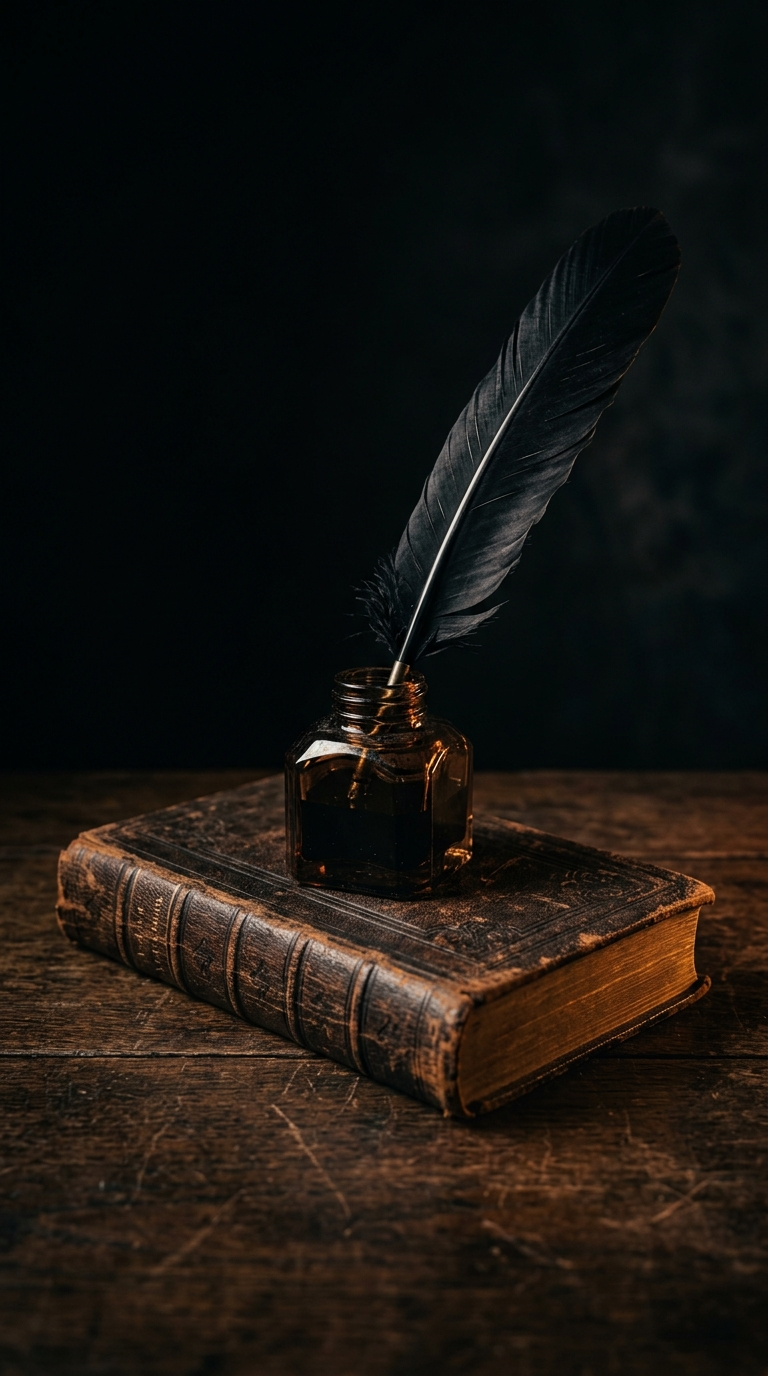
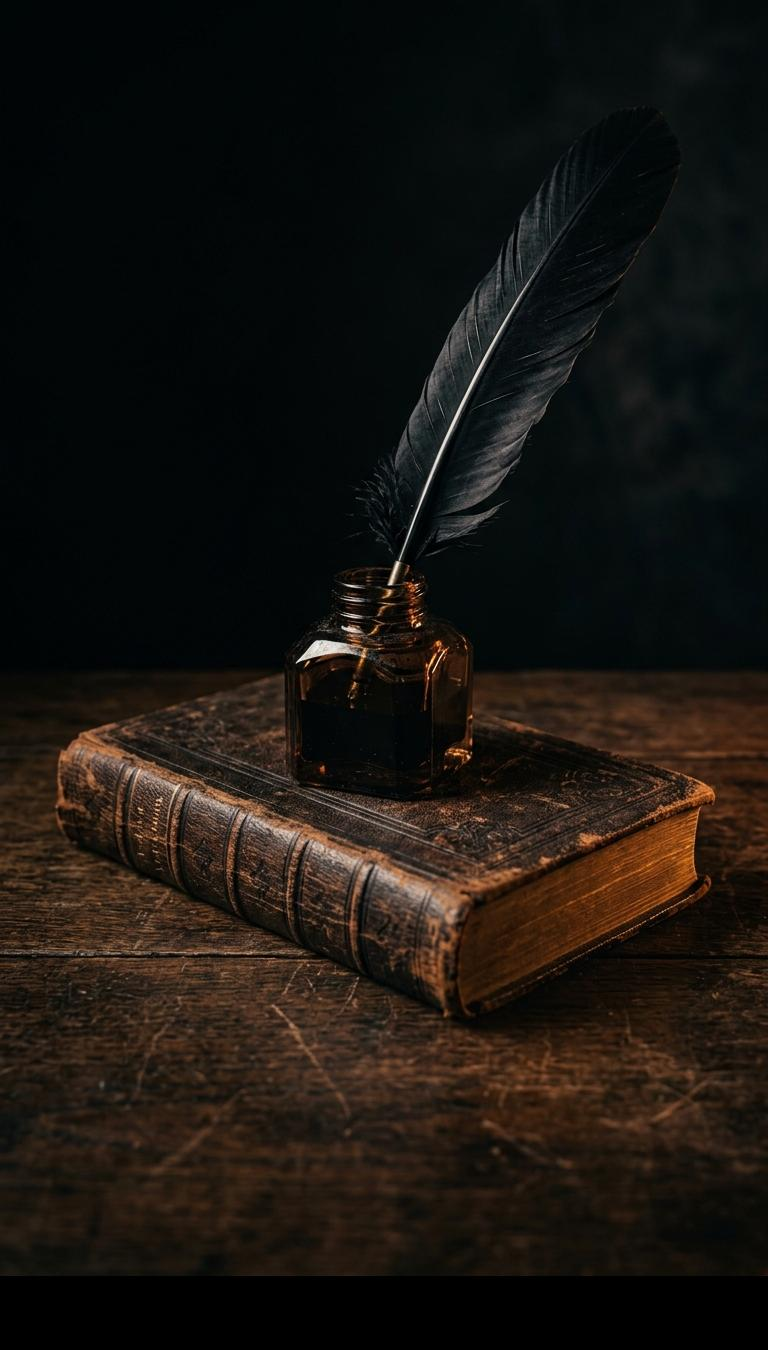
style(footer): expand height, increase typography scale, and fix right-side background framing

diff --git a/src/components/layout/footer.tsx b/src/components/layout/footer.tsx
@@ -13,54 +13,54 @@ import {
 
 export function Footer() {
   return (
-    <footer className="relative bg-black text-slate-300 pt-20 pb-10 overflow-hidden font-sans border-t border-white/5">
-      {/* Background Graphic: Antique Leather Book, Glass Inkwell & Black Feather Quill (Positioned on the Right Side) */}
-      <div className="absolute right-0 top-0 bottom-16 w-[360px] sm:w-[460px] lg:w-[520px] pointer-events-none select-none z-0 overflow-hidden">
+    <footer className="relative bg-black text-slate-300 pt-24 sm:pt-28 pb-14 min-h-[600px] overflow-hidden font-sans border-t border-white/5">
+      {/* Background Graphic: Antique Leather Book, Inkwell & Feather Quill (Spans Full Height on the Right) */}
+      <div className="absolute right-0 top-0 bottom-0 w-full sm:w-[500px] lg:w-[620px] xl:w-[700px] pointer-events-none select-none z-0 overflow-hidden">
         <div className="relative w-full h-full">
           <Image
             src="/footer-quill-bg.jpg"
             alt="Vintage Book with Quill in Inkwell"
             fill
             priority
-            className="object-cover object-right-bottom opacity-50"
+            className="object-contain object-right opacity-65"
           />
-          {/* Smooth gradient masks to blend seamlessly into pure black on the left and bottom */}
-          <div className="absolute inset-0 bg-gradient-to-r from-black via-black/40 to-transparent" />
+          {/* Smooth gradient blends to melt into solid black on the left and bottom */}
+          <div className="absolute inset-0 bg-gradient-to-r from-black via-black/25 to-transparent" />
           <div className="absolute inset-0 bg-gradient-to-t from-black via-transparent to-transparent" />
         </div>
       </div>
 
       {/* 97%-98% Responsive Shell matching design specifications */}
       <div className="relative z-10 w-[97%] lg:w-[98%] max-w-[1850px] mx-auto">
-        {/* Main 5-Column Row with Exact Proportional Column Widths */}
-        <div className="flex flex-col lg:flex-row items-start justify-between gap-8 lg:gap-0 pb-12">
+        {/* Main 5-Column Row with Exact Proportions and Generous Spacing */}
+        <div className="flex flex-col lg:flex-row items-start justify-between gap-10 lg:gap-0 pb-16">
           
           {/* Column 1: Brand Logo, Narrative Summary & Social Channels (28% Width) */}
           <div className="w-full lg:w-[28%] lg:pr-6 flex flex-col justify-between">
             <div>
-              <Link href="/" className="inline-block select-none mb-3">
-                <div className="relative w-[210px] sm:w-[235px] h-[48px] sm:h-[54px]">
+              <Link href="/" className="inline-block select-none mb-4">
+                <div className="relative w-[220px] sm:w-[250px] h-[52px] sm:h-[58px]">
                   <Image
                     src="/logo.png"
                     alt="Best Selling Publisher"
                     fill
-                    className="object-contain object-left drop-shadow-[0_0_12px_rgba(64,190,226,0.35)]"
+                    className="object-contain object-left drop-shadow-[0_0_15px_rgba(64,190,226,0.35)]"
                   />
                 </div>
               </Link>
 
-              <p className="text-xs sm:text-[13px] text-slate-400 leading-relaxed max-w-sm mt-3">
+              <p className="text-[14px] sm:text-[14.5px] text-slate-300 leading-relaxed max-w-sm mt-4">
                 Best Selling Publisher supports authors with editing, design, formatting, publishing setup, 
                 and marketing services selected in an approved project scope.
               </p>
             </div>
 
             {/* 7 Social Media Ring Icons */}
-            <div className="mt-8 flex items-center gap-2.5 flex-wrap">
+            <div className="mt-9 flex items-center gap-3 flex-wrap">
               {/* Facebook */}
               <a
                 href="#"
-                className="w-8 h-8 rounded-full border border-slate-700/80 bg-black hover:border-[#40bee2] hover:text-[#40bee2] text-slate-300 flex items-center justify-center transition-all text-xs font-bold shadow-sm hover:shadow-[0_0_10px_rgba(64,190,226,0.4)] active:scale-95"
+                className="w-9 h-9 rounded-full border border-slate-700/80 bg-black hover:border-[#40bee2] hover:text-[#40bee2] text-slate-300 flex items-center justify-center transition-all text-sm font-bold shadow-sm hover:shadow-[0_0_12px_rgba(64,190,226,0.4)] active:scale-95"
                 aria-label="Facebook"
               >
                 f
@@ -69,10 +69,10 @@ export function Footer() {
               {/* Instagram */}
               <a
                 href="#"
-                className="w-8 h-8 rounded-full border border-slate-700/80 bg-black hover:border-[#40bee2] hover:text-[#40bee2] text-slate-300 flex items-center justify-center transition-all text-xs shadow-sm hover:shadow-[0_0_10px_rgba(64,190,226,0.4)] active:scale-95"
+                className="w-9 h-9 rounded-full border border-slate-700/80 bg-black hover:border-[#40bee2] hover:text-[#40bee2] text-slate-300 flex items-center justify-center transition-all text-sm shadow-sm hover:shadow-[0_0_12px_rgba(64,190,226,0.4)] active:scale-95"
                 aria-label="Instagram"
               >
-                <svg className="w-3.5 h-3.5 fill-current" viewBox="0 0 24 24">
+                <svg className="w-4 h-4 fill-current" viewBox="0 0 24 24">
                   <path d="M12 2.163c3.204 0 3.584.012 4.85.07 3.252.148 4.771 1.691 4.919 4.919.058 1.265.069 1.645.069 4.849 0 3.205-.012 3.584-.069 4.849-.149 3.225-1.664 4.771-4.919 4.919-1.266.058-1.644.07-4.85.07-3.204 0-3.584-.012-4.849-.07-3.26-.149-4.771-1.699-4.919-4.92-.058-1.265-.07-1.644-.07-4.849 0-3.204.013-3.583.07-4.849.149-3.227 1.664-4.771 4.919-4.919 1.266-.057 1.645-.069 4.849-.069zm0-2.163c-3.259 0-3.667.014-4.947.072-4.358.2-6.78 2.618-6.98 6.98-.059 1.281-.073 1.689-.073 4.948 0 3.259.014 3.668.072 4.948.2 4.358 2.618 6.78 6.98 6.98 1.281.058 1.689.072 4.948.072 3.259 0 3.668-.014 4.948-.072 4.354-.2 6.782-2.618 6.979-6.98.059-1.28.073-1.689.073-4.948 0-3.259-.014-3.667-.072-4.947-.196-4.354-2.617-6.78-6.979-6.98-1.281-.059-1.69-.073-4.949-.073zm0 5.838c-3.403 0-6.162 2.759-6.162 6.162s2.759 6.163 6.162 6.163 6.162-2.759 6.162-6.163c0-3.403-2.759-6.162-6.162-6.162zm0 10.162c-2.209 0-4-1.79-4-4 0-2.209 1.791-4 4-4s4 1.791 4 4c0 2.21-1.791 4-4 4zm6.406-11.845c-.796 0-1.441.645-1.441 1.44s.645 1.44 1.441 1.44c.795 0 1.439-.645 1.439-1.44s-.644-1.44-1.439-1.44z"/>
                 </svg>
               </a>
@@ -80,7 +80,7 @@ export function Footer() {
               {/* X */}
               <a
                 href="#"
-                className="w-8 h-8 rounded-full border border-slate-700/80 bg-black hover:border-[#40bee2] hover:text-[#40bee2] text-slate-300 flex items-center justify-center transition-all text-xs font-bold shadow-sm hover:shadow-[0_0_10px_rgba(64,190,226,0.4)] active:scale-95"
+                className="w-9 h-9 rounded-full border border-slate-700/80 bg-black hover:border-[#40bee2] hover:text-[#40bee2] text-slate-300 flex items-center justify-center transition-all text-sm font-bold shadow-sm hover:shadow-[0_0_12px_rgba(64,190,226,0.4)] active:scale-95"
                 aria-label="X"
               >
                 𝕏
@@ -89,7 +89,7 @@ export function Footer() {
               {/* Pinterest */}
               <a
                 href="#"
-                className="w-8 h-8 rounded-full border border-slate-700/80 bg-black hover:border-[#40bee2] hover:text-[#40bee2] text-slate-300 flex items-center justify-center transition-all text-xs font-bold shadow-sm hover:shadow-[0_0_10px_rgba(64,190,226,0.4)] active:scale-95"
+                className="w-9 h-9 rounded-full border border-slate-700/80 bg-black hover:border-[#40bee2] hover:text-[#40bee2] text-slate-300 flex items-center justify-center transition-all text-sm font-bold shadow-sm hover:shadow-[0_0_12px_rgba(64,190,226,0.4)] active:scale-95"
                 aria-label="Pinterest"
               >
                 P
@@ -98,10 +98,10 @@ export function Footer() {
               {/* TikTok */}
               <a
                 href="#"
-                className="w-8 h-8 rounded-full border border-slate-700/80 bg-black hover:border-[#40bee2] hover:text-[#40bee2] text-slate-300 flex items-center justify-center transition-all text-xs shadow-sm hover:shadow-[0_0_10px_rgba(64,190,226,0.4)] active:scale-95"
+                className="w-9 h-9 rounded-full border border-slate-700/80 bg-black hover:border-[#40bee2] hover:text-[#40bee2] text-slate-300 flex items-center justify-center transition-all text-sm shadow-sm hover:shadow-[0_0_12px_rgba(64,190,226,0.4)] active:scale-95"
                 aria-label="TikTok"
               >
-                <svg className="w-3.5 h-3.5 fill-current" viewBox="0 0 24 24">
+                <svg className="w-4 h-4 fill-current" viewBox="0 0 24 24">
                   <path d="M12.525.02c1.31-.02 2.61-.01 3.91-.02.08 1.53.63 3.09 1.75 4.17 1.12 1.11 2.7 1.62 4.24 1.79v4.03c-1.44-.05-2.89-.35-4.2-.97-.57-.26-1.1-.59-1.62-.93-.01 2.92.01 5.84-.02 8.75-.08 1.4-.54 2.79-1.35 3.94-1.31 1.92-3.58 3.17-5.91 3.21-1.43.08-2.86-.31-4.08-1.03-2.02-1.19-3.44-3.37-3.65-5.71-.02-.5-.03-1-.01-1.49.18-1.9 1.12-3.72 2.58-4.96 1.66-1.44 3.98-2.13 6.15-1.72.02 1.48-.04 2.96-.04 4.44-.99-.32-2.15-.23-3.02.37-.63.41-1.11 1.04-1.36 1.75-.21.51-.24 1.07-.14 1.61.24 1.64 1.82 3.02 3.5 2.87 1.12-.01 2.19-.66 2.77-1.61.19-.33.4-.67.41-1.06.1-1.79.06-3.57.07-5.36.01-4.03-.01-8.05.02-12.07z"/>
                 </svg>
               </a>
@@ -109,10 +109,10 @@ export function Footer() {
               {/* YouTube */}
               <a
                 href="#"
-                className="w-8 h-8 rounded-full border border-slate-700/80 bg-black hover:border-[#40bee2] hover:text-[#40bee2] text-slate-300 flex items-center justify-center transition-all text-xs shadow-sm hover:shadow-[0_0_10px_rgba(64,190,226,0.4)] active:scale-95"
+                className="w-9 h-9 rounded-full border border-slate-700/80 bg-black hover:border-[#40bee2] hover:text-[#40bee2] text-slate-300 flex items-center justify-center transition-all text-sm shadow-sm hover:shadow-[0_0_12px_rgba(64,190,226,0.4)] active:scale-95"
                 aria-label="YouTube"
               >
-                <svg className="w-3.5 h-3.5 fill-current" viewBox="0 0 24 24">
+                <svg className="w-4 h-4 fill-current" viewBox="0 0 24 24">
                   <path d="M23.498 6.186a3.016 3.016 0 0 0-2.122-2.136C19.505 3.545 12 3.545 12 3.545s-7.505 0-9.377.505A3.017 3.017 0 0 0 .502 6.186C0 8.07 0 12 0 12s0 3.93.502 5.814a3.016 3.016 0 0 0 2.122 2.136c1.871.505 9.376.505 9.376.505s7.505 0 9.377-.505a3.015 3.015 0 0 0 2.122-2.136C24 15.93 24 12 24 12s0-3.93-.502-5.814zM9.545 15.568V8.432L15.818 12l-6.273 3.568z"/>
                 </svg>
               </a>
@@ -120,7 +120,7 @@ export function Footer() {
               {/* LinkedIn */}
               <a
                 href="#"
-                className="w-8 h-8 rounded-full border border-slate-700/80 bg-black hover:border-[#40bee2] hover:text-[#40bee2] text-slate-300 flex items-center justify-center transition-all text-xs font-bold shadow-sm hover:shadow-[0_0_10px_rgba(64,190,226,0.4)] active:scale-95"
+                className="w-9 h-9 rounded-full border border-slate-700/80 bg-black hover:border-[#40bee2] hover:text-[#40bee2] text-slate-300 flex items-center justify-center transition-all text-sm font-bold shadow-sm hover:shadow-[0_0_12px_rgba(64,190,226,0.4)] active:scale-95"
                 aria-label="LinkedIn"
               >
                 in
@@ -129,7 +129,7 @@ export function Footer() {
           </div>
 
           {/* Animated Vertical Divider 1 with glowing cyan top dot */}
-          <div className="hidden lg:flex flex-col items-center self-stretch mx-4">
+          <div className="hidden lg:flex flex-col items-center self-stretch mx-5">
             <div className="w-[1px] h-full bg-gradient-to-b from-[#40bee2]/90 via-slate-800/80 to-transparent relative">
               <span className="absolute -top-1 -left-[3px] w-2 h-2 rounded-full bg-[#40bee2] shadow-[0_0_12px_#40bee2] animate-pulse" />
             </div>
@@ -137,16 +137,16 @@ export function Footer() {
 
           {/* Column 2: QUICK LINKS (13% Width - Compact) */}
           <div className="w-full lg:w-[13%]">
-            <div className="mb-5">
-              <h4 className="text-[13px] sm:text-[14px] font-bold uppercase tracking-wider text-white">
+            <div className="mb-6">
+              <h4 className="text-[15px] sm:text-[16px] font-bold uppercase tracking-wider text-white">
                 QUICK LINKS
               </h4>
-              <div className="h-[2px] w-12 bg-gradient-to-r from-[#40bee2] via-[#40bee2]/60 to-transparent rounded-full mt-1.5 relative overflow-hidden">
+              <div className="h-[2.5px] w-14 bg-gradient-to-r from-[#40bee2] via-[#40bee2]/70 to-transparent rounded-full mt-2 relative overflow-hidden">
                 <div className="absolute inset-0 bg-white/40 animate-pulse" />
               </div>
             </div>
 
-            <ul className="space-y-3 text-xs sm:text-[13px] text-slate-300">
+            <ul className="space-y-4 text-[14px] sm:text-[14.5px] text-slate-300">
               {[
                 { name: "Home", href: "/" },
                 { name: "Blogs", href: "/blogs" },
@@ -159,7 +159,7 @@ export function Footer() {
                     href={link.href}
                     className="flex items-center gap-2 hover:text-[#40bee2] transition-colors group"
                   >
-                    <ChevronRight className="w-3 h-3 text-[#40bee2] shrink-0 transition-transform group-hover:translate-x-1" />
+                    <ChevronRight className="w-3.5 h-3.5 text-[#40bee2] shrink-0 transition-transform group-hover:translate-x-1" />
                     <span>{link.name}</span>
                   </Link>
                 </li>
@@ -168,7 +168,7 @@ export function Footer() {
           </div>
 
           {/* Animated Vertical Divider 2 with glowing cyan top dot */}
-          <div className="hidden lg:flex flex-col items-center self-stretch mx-4">
+          <div className="hidden lg:flex flex-col items-center self-stretch mx-5">
             <div className="w-[1px] h-full bg-gradient-to-b from-[#40bee2]/90 via-slate-800/80 to-transparent relative">
               <span className="absolute -top-1 -left-[3px] w-2 h-2 rounded-full bg-[#40bee2] shadow-[0_0_12px_#40bee2] animate-pulse" />
             </div>
@@ -176,16 +176,16 @@ export function Footer() {
 
           {/* Column 3: OUR SERVICES (17% Width - Compact) */}
           <div className="w-full lg:w-[17%]">
-            <div className="mb-5">
-              <h4 className="text-[13px] sm:text-[14px] font-bold uppercase tracking-wider text-white">
+            <div className="mb-6">
+              <h4 className="text-[15px] sm:text-[16px] font-bold uppercase tracking-wider text-white">
                 OUR SERVICES
               </h4>
-              <div className="h-[2px] w-14 bg-gradient-to-r from-[#40bee2] via-[#40bee2]/60 to-transparent rounded-full mt-1.5 relative overflow-hidden">
+              <div className="h-[2.5px] w-16 bg-gradient-to-r from-[#40bee2] via-[#40bee2]/70 to-transparent rounded-full mt-2 relative overflow-hidden">
                 <div className="absolute inset-0 bg-white/40 animate-pulse" />
               </div>
             </div>
 
-            <ul className="space-y-3 text-xs sm:text-[13px] text-slate-300">
+            <ul className="space-y-4 text-[14px] sm:text-[14.5px] text-slate-300">
               {[
                 { name: "Book Publishing", href: "/book-publishing-services" },
                 { name: "Digital Book Publishing", href: "/book-publishing-services" },
@@ -200,7 +200,7 @@ export function Footer() {
                     href={svc.href}
                     className="flex items-center gap-2 hover:text-[#40bee2] transition-colors group"
                   >
-                    <BookOpen className="w-3.5 h-3.5 text-[#40bee2] shrink-0" />
+                    <BookOpen className="w-4 h-4 text-[#40bee2] shrink-0" />
                     <span>{svc.name}</span>
                   </Link>
                 </li>
@@ -209,7 +209,7 @@ export function Footer() {
           </div>
 
           {/* Animated Vertical Divider 3 with glowing cyan top dot */}
-          <div className="hidden lg:flex flex-col items-center self-stretch mx-4">
+          <div className="hidden lg:flex flex-col items-center self-stretch mx-5">
             <div className="w-[1px] h-full bg-gradient-to-b from-[#40bee2]/90 via-slate-800/80 to-transparent relative">
               <span className="absolute -top-1 -left-[3px] w-2 h-2 rounded-full bg-[#40bee2] shadow-[0_0_12px_#40bee2] animate-pulse" />
             </div>
@@ -217,18 +217,18 @@ export function Footer() {
 
           {/* Column 4: CONTACT US (18% Width - Compact) */}
           <div className="w-full lg:w-[18%]">
-            <div className="mb-5">
-              <h4 className="text-[13px] sm:text-[14px] font-bold uppercase tracking-wider text-white">
+            <div className="mb-6">
+              <h4 className="text-[15px] sm:text-[16px] font-bold uppercase tracking-wider text-white">
                 CONTACT US
               </h4>
-              <div className="h-[2px] w-12 bg-gradient-to-r from-[#40bee2] via-[#40bee2]/60 to-transparent rounded-full mt-1.5 relative overflow-hidden">
+              <div className="h-[2.5px] w-14 bg-gradient-to-r from-[#40bee2] via-[#40bee2]/70 to-transparent rounded-full mt-2 relative overflow-hidden">
                 <div className="absolute inset-0 bg-white/40 animate-pulse" />
               </div>
             </div>
 
-            <ul className="space-y-3.5 text-xs sm:text-[13px] text-slate-300">
+            <ul className="space-y-4 text-[14px] sm:text-[14.5px] text-slate-300">
               <li className="flex items-start gap-2.5">
-                <Mail className="w-3.5 h-3.5 text-[#40bee2] shrink-0 mt-0.5" />
+                <Mail className="w-4 h-4 text-[#40bee2] shrink-0 mt-1" />
                 <a
                   href="mailto:inquiries@bestsellingpublisher.com"
                   className="hover:text-[#40bee2] transition-colors break-all leading-snug"
@@ -237,7 +237,7 @@ export function Footer() {
                 </a>
               </li>
               <li className="flex items-start gap-2.5">
-                <Mail className="w-3.5 h-3.5 text-[#40bee2] shrink-0 mt-0.5" />
+                <Mail className="w-4 h-4 text-[#40bee2] shrink-0 mt-1" />
                 <a
                   href="mailto:info@bestsellingpublisher.com"
                   className="hover:text-[#40bee2] transition-colors break-all leading-snug"
@@ -246,7 +246,7 @@ export function Footer() {
                 </a>
               </li>
               <li className="flex items-start gap-2.5">
-                <Phone className="w-3.5 h-3.5 text-[#40bee2] shrink-0 mt-0.5" />
+                <Phone className="w-4 h-4 text-[#40bee2] shrink-0 mt-1" />
                 <a
                   href="tel:8556666675"
                   className="hover:text-[#40bee2] transition-colors font-semibold leading-snug"
@@ -255,14 +255,14 @@ export function Footer() {
                 </a>
               </li>
               <li className="flex items-start gap-2.5">
-                <MapPin className="w-3.5 h-3.5 text-[#40bee2] shrink-0 mt-0.5" />
+                <MapPin className="w-4 h-4 text-[#40bee2] shrink-0 mt-1" />
                 <span className="leading-snug text-slate-400">
                   9518 Mykawa Road,<br />
                   Houston, TX 77048
                 </span>
               </li>
               <li className="flex items-start gap-2.5">
-                <MapPin className="w-3.5 h-3.5 text-[#40bee2] shrink-0 mt-0.5" />
+                <MapPin className="w-4 h-4 text-[#40bee2] shrink-0 mt-1" />
                 <span className="leading-snug text-slate-400">
                   445 S Figueroa St,<br />
                   Los Angeles, CA 90071
@@ -273,14 +273,14 @@ export function Footer() {
 
           {/* Column 5: DMCA & Payment Cards Box + Calligraphy Slogan (24% Width) */}
           <div className="w-full lg:w-[24%] flex flex-col items-start lg:items-start pl-0 lg:pl-4 z-10">
-            {/* Interactive DMCA & Payment Cards Card */}
-            <div className="relative rounded-2xl border border-white/20 bg-black/50 backdrop-blur-md p-3.5 sm:p-4 shadow-xl hover:border-[#40bee2]/50 transition-all cursor-pointer group select-none">
+            {/* Interactive DMCA & Payment Cards Box */}
+            <div className="relative w-[250px] rounded-2xl border border-white/20 bg-black/60 backdrop-blur-md p-4 shadow-2xl hover:border-[#40bee2]/50 transition-all cursor-pointer group select-none">
               {/* DMCA Badge Header */}
-              <div className="border border-amber-400/90 rounded-[5px] overflow-hidden flex items-center h-[34px] shadow-sm bg-black mb-3">
-                <div className="bg-gradient-to-r from-lime-600 via-green-600 to-green-500 h-full px-3 flex items-center justify-center text-white font-extrabold text-[12px] tracking-wider shadow-inner">
+              <div className="border border-amber-400/90 rounded-[5px] overflow-hidden flex items-center h-[36px] shadow-sm bg-black mb-3">
+                <div className="bg-gradient-to-r from-lime-600 via-green-600 to-green-500 h-full px-3.5 flex items-center justify-center text-white font-extrabold text-[13px] tracking-wider shadow-inner">
                   DMCA
                 </div>
-                <div className="bg-black h-full px-3.5 flex items-center justify-center text-white font-black text-[12px] tracking-widest">
+                <div className="bg-black h-full px-4 flex items-center justify-center text-white font-black text-[13px] tracking-widest">
                   PROTECTED
                 </div>
               </div>
@@ -288,36 +288,36 @@ export function Footer() {
               {/* 4 Payment Cards Row */}
               <div className="flex items-center gap-2">
                 {/* MasterCard */}
-                <div className="w-11 h-7 rounded bg-[#0a1b3a] border border-white/10 flex items-center justify-center overflow-hidden p-0.5 shadow-sm">
+                <div className="w-12 h-8 rounded bg-[#0a1b3a] border border-white/10 flex items-center justify-center overflow-hidden p-0.5 shadow-sm">
                   <div className="flex items-center -space-x-2">
-                    <div className="w-4 h-4 rounded-full bg-[#eb001b]" />
-                    <div className="w-4 h-4 rounded-full bg-[#f79e1b] opacity-90" />
+                    <div className="w-4.5 h-4.5 rounded-full bg-[#eb001b]" />
+                    <div className="w-4.5 h-4.5 rounded-full bg-[#f79e1b] opacity-90" />
                   </div>
                 </div>
 
                 {/* Visa */}
-                <div className="w-11 h-7 rounded bg-white flex items-center justify-center overflow-hidden px-1 shadow-sm">
-                  <span className="text-[#1a1f71] font-black italic text-[11px] tracking-tight">VISA</span>
+                <div className="w-12 h-8 rounded bg-white flex items-center justify-center overflow-hidden px-1 shadow-sm">
+                  <span className="text-[#1a1f71] font-black italic text-[12px] tracking-tight">VISA</span>
                 </div>
 
                 {/* American Express */}
-                <div className="w-11 h-7 rounded bg-[#006fcf] flex items-center justify-center overflow-hidden px-1 shadow-sm">
-                  <span className="text-white font-black text-[7px] leading-[8px] text-center tracking-tighter">
+                <div className="w-12 h-8 rounded bg-[#006fcf] flex items-center justify-center overflow-hidden px-1 shadow-sm">
+                  <span className="text-white font-black text-[8px] leading-[9px] text-center tracking-tighter">
                     AMERICAN<br />EXPRESS
                   </span>
                 </div>
 
                 {/* Discover */}
-                <div className="w-11 h-7 rounded bg-white flex items-center justify-center overflow-hidden px-1 shadow-sm relative">
-                  <span className="text-[#1f2421] font-extrabold text-[8px] tracking-tight">DISCOVER</span>
+                <div className="w-12 h-8 rounded bg-white flex items-center justify-center overflow-hidden px-1 shadow-sm relative">
+                  <span className="text-[#1f2421] font-extrabold text-[9px] tracking-tight">DISCOVER</span>
                   <div className="absolute -bottom-2 -right-1 w-6 h-6 rounded-full bg-[#ff6000]/80" />
                 </div>
               </div>
             </div>
 
-            {/* Cursive Slogan: "Your Story. Our Expertise." directly below the badge card */}
-            <div className="mt-8 select-none">
-              <div className="relative w-[150px] h-[80px]">
+            {/* Cursive Calligraphy Slogan: "Your Story. Our Expertise." */}
+            <div className="mt-9 select-none">
+              <div className="relative w-[180px] h-[95px]">
                 <Image
                   src="/footer-slogan.png"
                   alt="Your Story. Our Expertise."
@@ -330,15 +330,15 @@ export function Footer() {
         </div>
 
         {/* Central Animated Book Divider across the entire footer */}
-        <div className="relative w-full flex items-center justify-center my-6">
+        <div className="relative w-full flex items-center justify-center my-8">
           {/* Left glowing animated line with pulse dot */}
           <div className="flex-1 h-[1px] bg-gradient-to-r from-transparent via-[#40bee2]/50 to-[#40bee2] relative">
             <span className="absolute -left-1 -top-[3px] w-2 h-2 rounded-full bg-[#40bee2] shadow-[0_0_10px_#40bee2] animate-pulse" />
           </div>
 
           {/* Center Book Icon */}
-          <div className="px-5 bg-black flex items-center justify-center">
-            <div className="relative w-12 h-8">
+          <div className="px-6 bg-black flex items-center justify-center">
+            <div className="relative w-14 h-9">
               <Image
                 src="/footer-center-book.png"
                 alt="Center book icon divider"
@@ -355,7 +355,7 @@ export function Footer() {
         </div>
 
         {/* Copyright matching screenshot */}
-        <div className="text-center pt-2 text-xs text-slate-400 font-medium">
+        <div className="text-center pt-3 text-xs sm:text-[13px] text-slate-400 font-medium">
           © 2026 - All Rights Reserved{" "}
           <span className="text-[#40bee2] font-semibold">Infiniti Media INC</span>
         </div>
